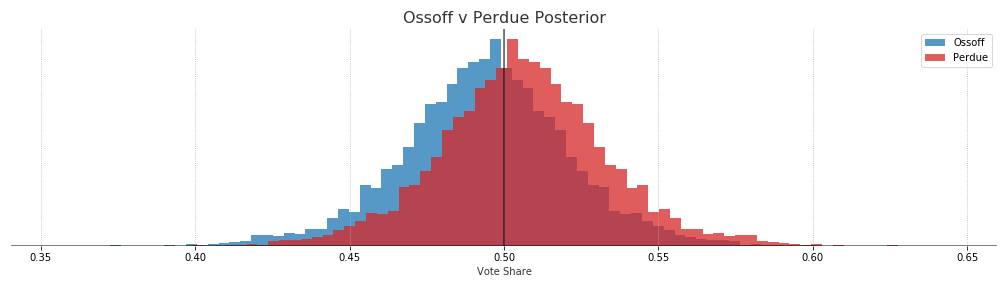
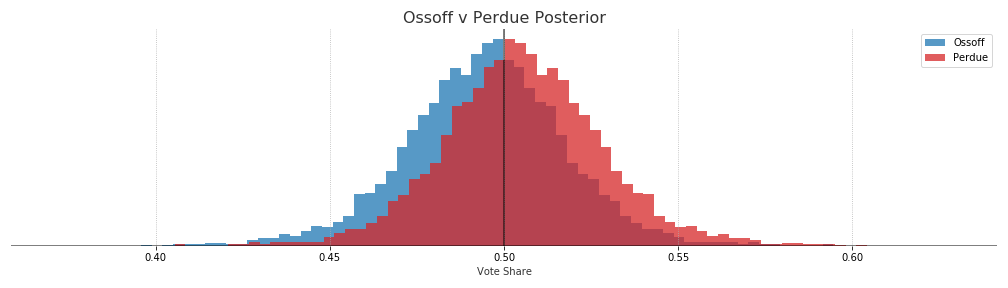
added reconnect research from 12/22

diff --git a/_posts/2020-12-18-election.md b/_posts/2020-12-18-election.md
@@ -4,14 +4,14 @@ title: Hierarchical Partial Pooling for Georgia Runoff Elections
 published: True
 ---
 
-Updated: Dec 23, 2020
+Updated: Dec 24, 2020
 
-# Warnock: 44.8% - Loeffler: 55.2% 
+# Warnock: 46.2% - Loeffler: 53.8% 
 
 {: .center}
 ![WL Posterior](../images/ga_wl_posteriors.png)
 
-# Ossoff: 40.4% - Perdue: 59.5% 
+# Ossoff: 40.1% - Perdue: 59.9% 
 
 {: .center}
 ![WL Posterior](../images/ga_op_posteriors.png)
@@ -22,10 +22,10 @@ Updated: Dec 23, 2020
 
 | Candidate | Mean | 80% Interval |
 | ----------|------|--------------|
-| Ossoff    | 49.4 | 46.0 - 52.7  |
-| Perdue    | 50.6 | 47.3 - 54.0  |
-| Warnock   | 49.6 | 46.6 - 52.8  |
-| Loeffler  | 50.4 | 47.2 - 53.4  |
+| Ossoff    | 49.5 | 46.8 - 52.5  |
+| Perdue    | 50.6 | 47.5 - 53.2  |
+| Warnock   | 49.8 | 47.2 - 52.5  |
+| Loeffler  | 50.4 | 47.5 - 52.8  |
 
 ## Methods
 
